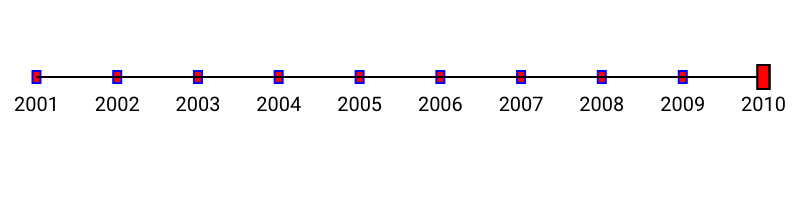
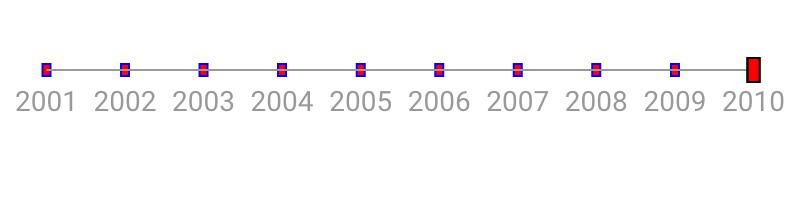
d3plus-timeline examples

Changed region(s): [[0.0, 0.27, 1.0, 0.57]]

diff --git a/_examples/d3plus-timeline/change-style/embed.html b/_examples/d3plus-timeline/change-style/embed.html
@@ -6,7 +6,7 @@
     <meta charset="utf-8">
     <title>Changing Styles | D3plus</title>
 
-    <script src="https://d3plus.org/js/d3plus-timeline.v0.5.full.min.js"></script>
+    <script src="https://d3plus.org/js/d3plus-timeline.v1.0.full.min.js"></script>
 
     <style>
 

diff --git a/_examples/d3plus-timeline/getting-started/embed.html b/_examples/d3plus-timeline/getting-started/embed.html
@@ -6,7 +6,7 @@
     <meta charset="utf-8">
     <title>Getting Started | D3plus</title>
 
-    <script src="https://d3plus.org/js/d3plus-timeline.v0.5.full.min.js"></script>
+    <script src="https://d3plus.org/js/d3plus-timeline.v1.0.full.min.js"></script>
 
     <style>
 

diff --git a/_examples/d3plus-timeline/change-style/index.md b/_examples/d3plus-timeline/change-style/index.md
@@ -2,8 +2,8 @@
 title: Changing Styles
 width: 400
 height: 100
-time: 1594760232861
-date: July 14, 2020
+time: 1612301964581
+date: February 02, 2021
 ---
 
 [width]: 400

diff --git a/_examples/d3plus-timeline/getting-started/index.md b/_examples/d3plus-timeline/getting-started/index.md
@@ -2,8 +2,8 @@
 title: Getting Started
 width: 400
 height: 100
-time: 1594760232861
-date: July 14, 2020
+time: 1612301964581
+date: February 02, 2021
 ---
 
 [width]: 400
